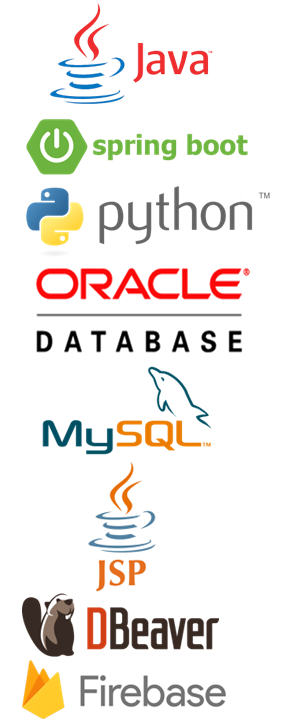
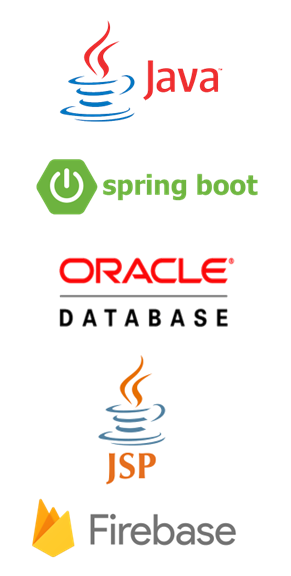
commit

Changed region(s): [[0.0625, 0.0, 0.9062, 1.0], [0.9062, 0.25, 0.9375, 0.2812]]

diff --git a/css/skills.css b/css/skills.css
@@ -25,7 +25,7 @@ color: white;}
     background-color: white;
     border-radius: 30px;
     justify-content: center;
-    height: 840px;
+    height: 680px;
 }
 .Frontend{
     width: 400px;
